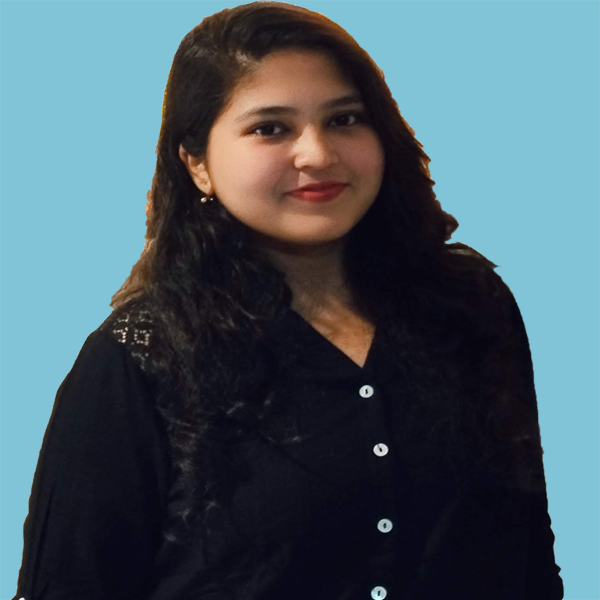
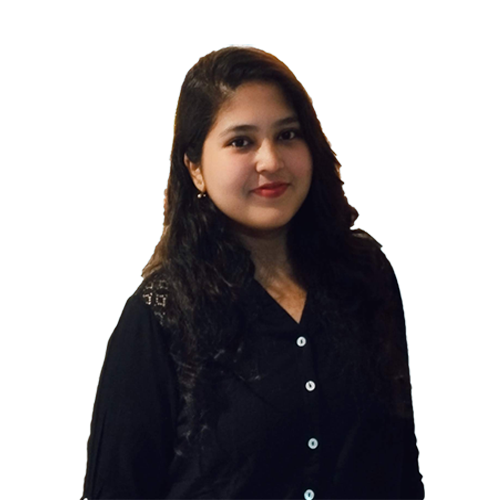
colors updated

diff --git a/client/src/pages/Home/About.js b/client/src/pages/Home/About.js
@@ -1,6 +1,6 @@
 import React from 'react'
 import SectionTitle from '../../components/SectionTitle'
-import DevGirl from "../../images/devgirl.png";
+import DevGirl from "../../images/devgirl2.png";
 import { useSelector } from 'react-redux';
 
 
@@ -13,14 +13,14 @@ function About() {
         <div>
             <SectionTitle title="About" />
             <div className='flex w-full items-center sm:flex-col'>
-                <div className='h-[80vh] flex flex-col items-start justify-center gap-8 w-1/2 sm:w-full'>
+                <div className='h-[60vh] flex flex-col items-start justify-center gap-8 w-1/2 sm:w-3/4 sm:h-3/4 sm:mb-12'>
                     <img
                         src={DevGirl}
                         alt="dev girl"
                         className="rounded-full mx-auto md:w-md"
                     />
                 </div>
-                <div className='h-[80vh] flex flex-col items-start justify-center gap-8 w-1/2 sm:w-full'>
+                <div className='h-[60vh] flex flex-col items-start justify-center gap-8 w-1/2 sm:w-4/5 sm:h-3/4'>
 
                     <p className='text-white'> {description1 || ''}</p>
                     <p className='text-white'>
@@ -31,9 +31,9 @@ function About() {
             </div>
             <div className='py-5'>
                 <h1 className='text-tertiary text-2xl font-semibold'>Here are a few technologies I have been working on:</h1>
-                <div className='flex flex-wrap gap-10 mt-5'>
+                <div className='flex flex-wrap gap-10 mt-5 '>
                     {skills.map((skill, index) => (
-                        <div className='border-2 rounded-md border-tertiary py-3 px-10'>
+                        <div className='border-2 rounded-md border-tertiary py-3 px-10 gradient-button'>
                             <h1 className='text-tertiary font-semibold'>{skill}</h1>
                         </div>
                     ))}

diff --git a/client/src/pages/Home/Experiences.js b/client/src/pages/Home/Experiences.js
@@ -11,14 +11,14 @@ function Experiences() {
         <div>
             <SectionTitle title="Experiences" />
             <div className='flex py-10 gap-20 sm:flex-col'>
-                <div className='flex flex-col gap-10 border-l-2 border-[#2f6690] w-1/3 sm:flex-row sm:overflow-x-scroll sm:w-full'>
+                <div className='flex flex-col gap-10 border-l-2 border-[#2d3250] w-1/3 sm:flex-row sm:overflow-x-scroll sm:w-full'>
                     {experiences.map((experience, index) => (
                         <div onClick={() => {
                             setSelectedItemIndex(index);
                         }}
                             className='cursor-pointer'
                         >
-                            <h1 className={`text-xl font-semibold ${selectedItemIndex === index ? 'text-tertiary border-tertiary border-l-4 -ml-[3px] bg-[#2f66903f] py-3 sm:w-full' : 'text-white'}`}>{experience.period}</h1>
+                            <h1 className={`text-xl font-semibold ${selectedItemIndex === index ? 'text-tertiary border-tertiary border-l-4 -ml-[3px] bg-[#2d32504d] py-3 sm:w-full' : 'text-white'}`}>{experience.period}</h1>
                         </div>
                     ))}
                 </div>

diff --git a/client/src/pages/Home/Education.js b/client/src/pages/Home/Education.js
@@ -12,14 +12,14 @@ function Education() {
         <div>
             <SectionTitle title="Education" />
             <div className='flex py-10 gap-20 sm:flex-col'>
-                <div className='flex flex-col gap-10 border-l-2 border-[#2f6690] w-1/3 sm:flex-row sm:overflow-x-scroll sm:w-full'>
+                <div className='flex flex-col gap-10 border-l-2 border-[#2d3250] w-1/3 sm:flex-row sm:overflow-x-scroll sm:w-full'>
                     {education.map((education, index) => (
                         <div onClick={() => {
                             setSelectedItemIndex(index);
                         }}
                             className='cursor-pointer'
                         >
-                            <h1 className={`text-xl font-semibold ${selectedItemIndex === index ? 'text-tertiary border-tertiary border-l-4 -ml-[3px] bg-[#2f66903f] py-3 sm:w-full' : 'text-white'}`}>{education.period}</h1>
+                            <h1 className={`text-xl font-semibold ${selectedItemIndex === index ? 'text-tertiary border-tertiary border-l-4 -ml-[3px] bg-[#2d32504d] py-3 sm:w-full' : 'text-white'}`}>{education.period}</h1>
                         </div>
                     ))}
                 </div>

diff --git a/client/src/pages/Home/Intro.js b/client/src/pages/Home/Intro.js
@@ -15,13 +15,13 @@ function Intro() {
                 <h1 className='text-7xl sm:text-3xl text-secondary font-bold'>{firstName || ''} {lastName || ''}</h1>
                 <h1 className='text-5xl sm:text-2xl text-white font-semibold'>{caption || ''}</h1>
                 <p className='text-white text-2xl sm:text-xl'>{description || ''}</p>
-                <button className='border-2 border-tertiary text-tertiary px-10 py-3 rounded-md font-semibold'>GET STARTED</button>
+                <button className='gradient-button border-2 border-tertiary text-tertiary px-10 py-3 rounded-md font-semibold'>GET STARTED</button>
             </div>
-            <div className='h-[100vh] flex flex-col items-start justify-center  w-1/2 sm:w-3/4'>
+            <div className='h-[100vh] flex flex-col items-start justify-center  w-1/2 sm:w-3/4 sm:h-3/4'>
                 <img
                     src={MainImage}
                     alt="my profile"
-                    className="rounded-full border-4 border-cyan-300 mx-auto w-4/5 md:w-md"
+                    className="rounded-full border-4 border-border1 mx-auto w-4/5 md:w-md"
                 />
             </div>
         </div>

diff --git a/client/src/pages/Home/Projects.js b/client/src/pages/Home/Projects.js
@@ -11,14 +11,14 @@ function Projects() {
         <div>
             <SectionTitle title="Projects" />
             <div className='flex py-10 gap-20 flex-col'>
-                <div className='flex  gap-10 border-l-2 border-[#2f6690]  flex-row overflow-x-scroll w-full'>
+                <div className='flex  gap-10 border-l-2 border-[#2d3250]  flex-row overflow-x-scroll w-full'>
                     {projects.map((project, index) => (
                         <div onClick={() => {
                             setSelectedItemIndex(index);
                         }}
                             className='cursor-pointer'
                         >
-                            <h1 className={`text-xl font-semibold ${selectedItemIndex === index ? 'text-tertiary border-tertiary border-l-4 -ml-[3px] bg-[#2f66903f] py-3 sm:w-full' : 'text-white'}`}>{project.title}</h1>
+                            <h1 className={`text-xl font-semibold ${selectedItemIndex === index ? 'text-tertiary border-tertiary border-l-4 -ml-[2px] bg-[#2d32504d] py-3 sm:w-full' : 'text-white'}`}>{project.title}</h1>
                         </div>
                     ))}
                 </div>

diff --git a/client/src/index.css b/client/src/index.css
@@ -12,12 +12,12 @@
 
  /* Track */
  ::-webkit-scrollbar-track {
-     background-color: #81c3d7;
+     background-color: #212a3c;
  }
 
  /* Handle */
  ::-webkit-scrollbar-thumb {
-     background: #81c3d79a;
+     background: #212a3c8b;
      border-radius: 10px;
  }
 
@@ -76,4 +76,8 @@
  textarea {
      height: 100px;
      padding-top: 10px;
+ }
+
+ .gradient-button {
+     background: linear-gradient(to right, #212a3c, #2d3250, rgba(78, 81, 95, 0.777), #ffb17aa3);
  }

diff --git a/client/tailwind.config.js b/client/tailwind.config.js
@@ -6,9 +6,10 @@ module.exports = {
   theme: {
     extend: {
       colors: {
-        "primary": "#81c3d7",
-        "secondary": "#16425b",
-        "tertiary": "#2f6690"
+        "primary": "#212a3c",
+        "secondary": "#676fgd",
+        "tertiary": "#ffb17a",
+        "border1": "#2d3250",
       }
     },
     screens: {
